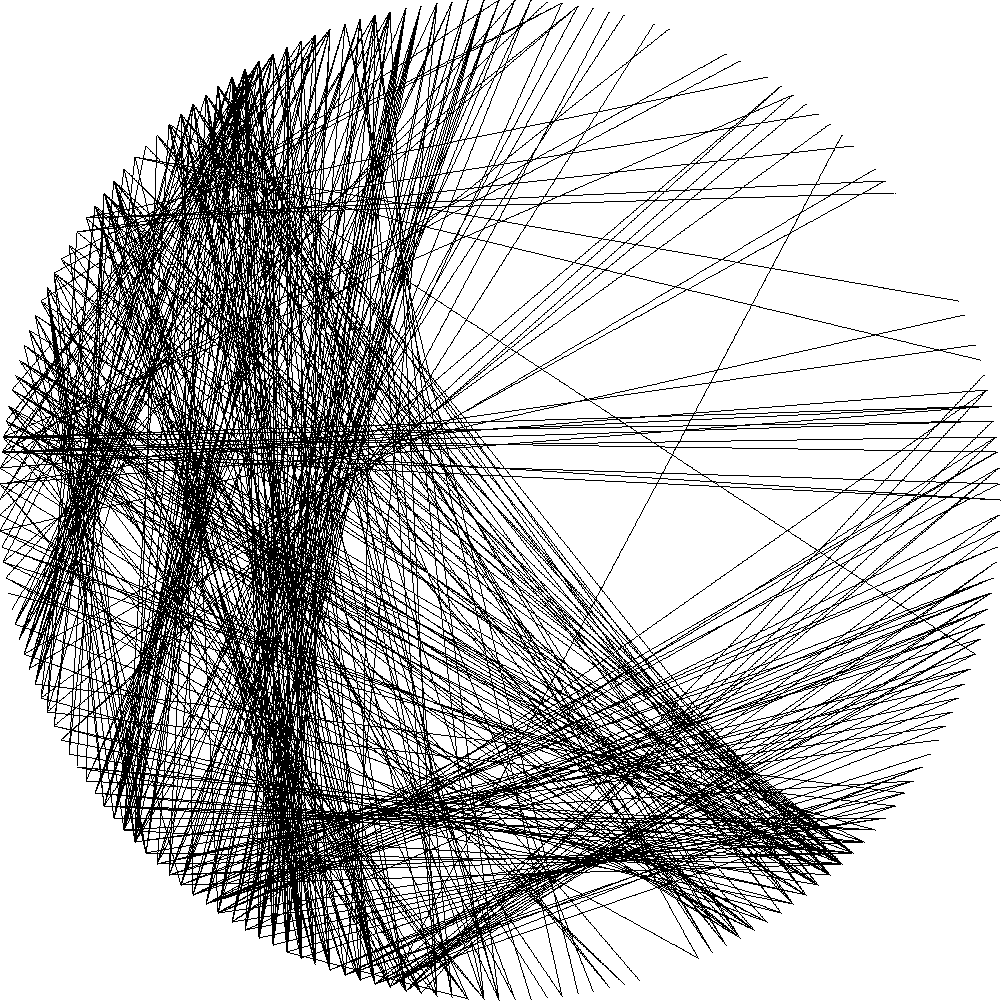
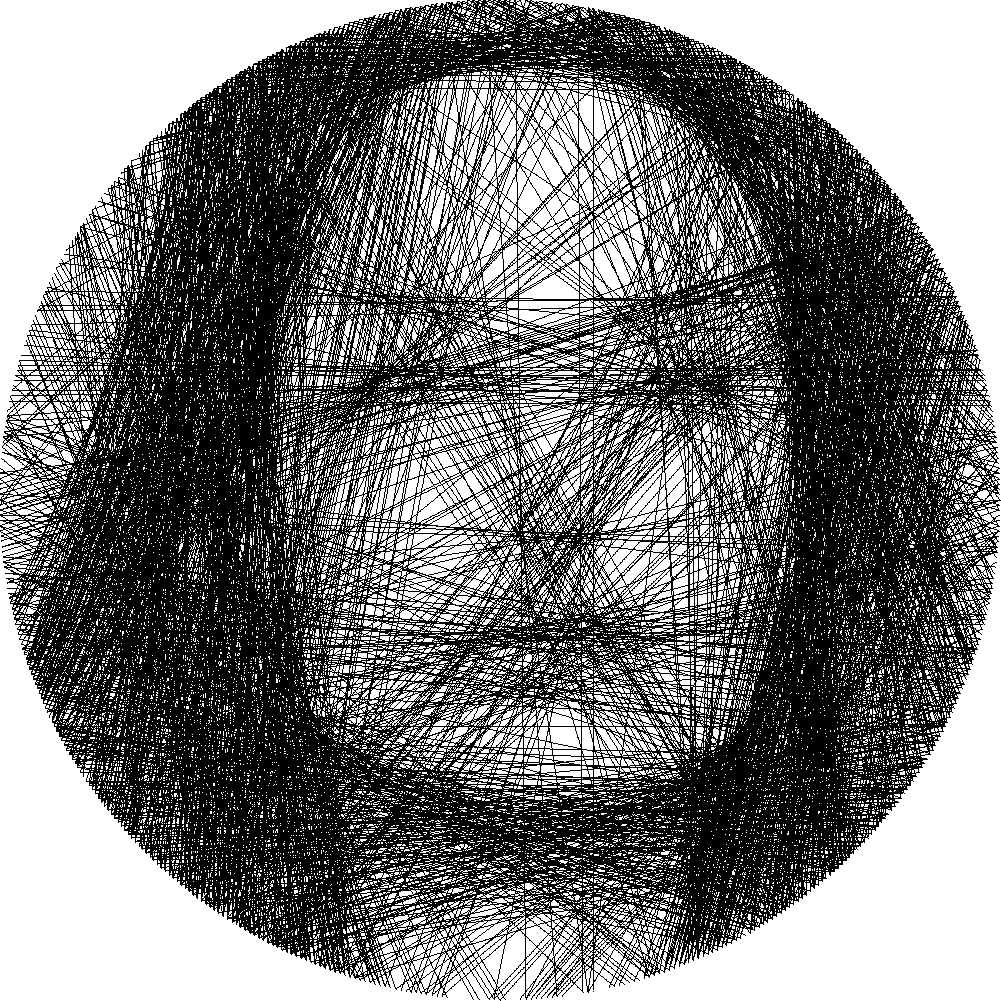
wip

diff --git a/threadTone.py b/threadTone.py
@@ -7,8 +7,8 @@ imgPath = "./path/image.png"
 imgRadius = 500     # Number of pixels that the image radius is resized to
 
 initPin = 0         # Initial pin to start threading from 
-nPins = 200         # Number of pins on the circular loom
-nLines = 500        # Maximal number of lines
+nPins = 600         # Number of pins on the circular loom
+nLines = 1500        # Maximal number of lines
 
 minLoop = 3         # Disallow loops of less than minLoop lines
 lineWidth = 3       # The number of pixels that represents the width of a thread
